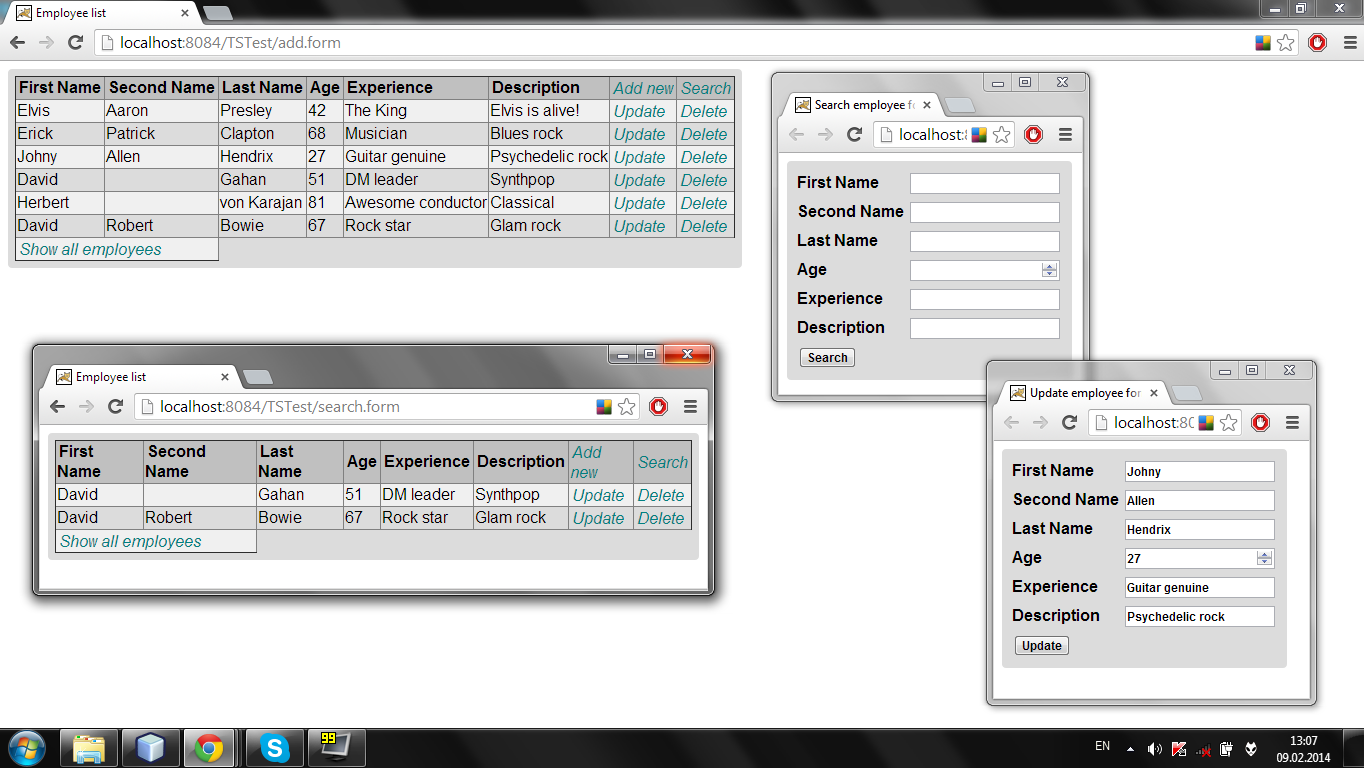
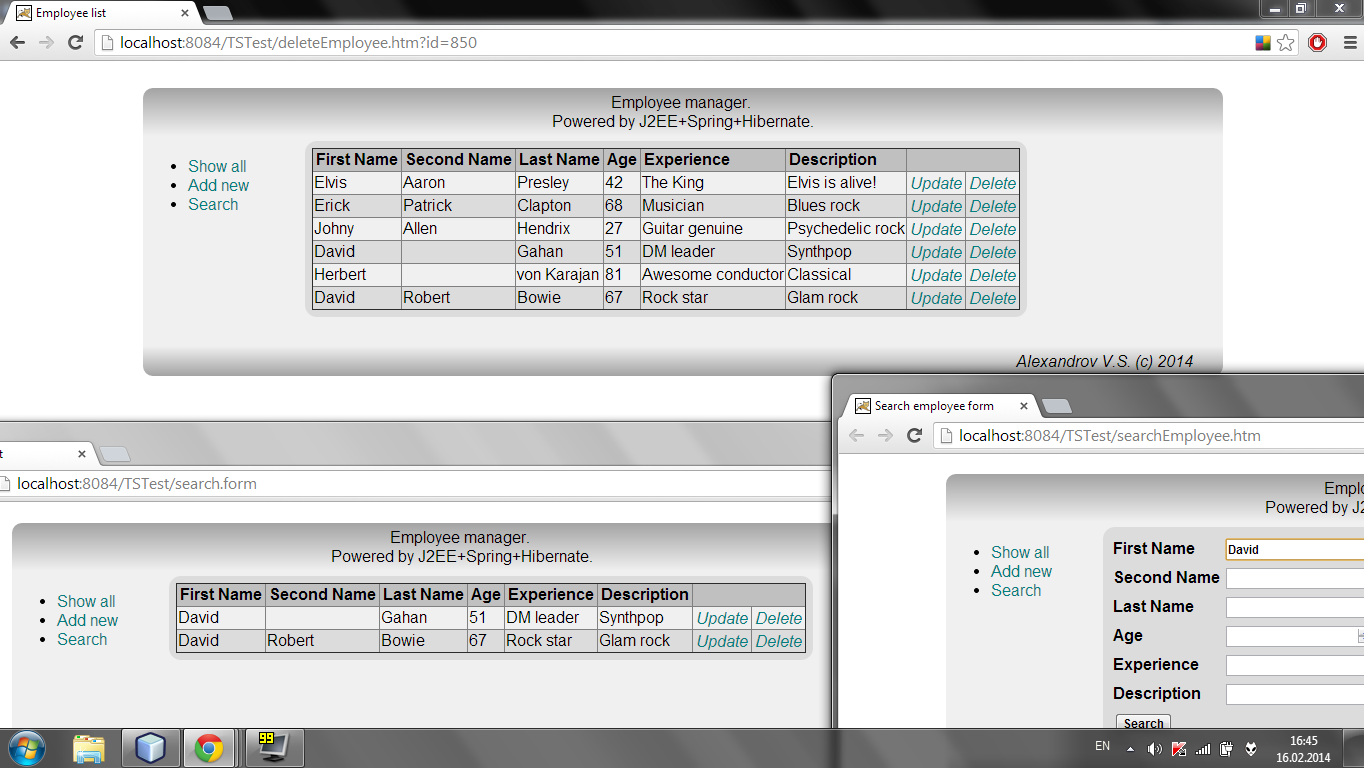
Third commit.

diff --git a/web/resources/css/general.css b/web/resources/css/general.css
@@ -6,6 +6,7 @@
 #wrapper{
     height: auto !important;
     margin: 2% 10% 0 10%;
+    min-width: 900px;
 }
 
 #header{
@@ -24,6 +25,7 @@
 }
 
 #leftBar{
+    min-width: 130px;
     width: 12%;
     float:left;
     //background-color: #a3a3a3;
@@ -38,7 +40,7 @@
     width: 83%;
     padding: 5px;
     border-radius: 6px;
-    padding-left: calc(13% + 15px);
+    padding-left: calc(130px + 3%);
     min-height: 200px;
 }
 
